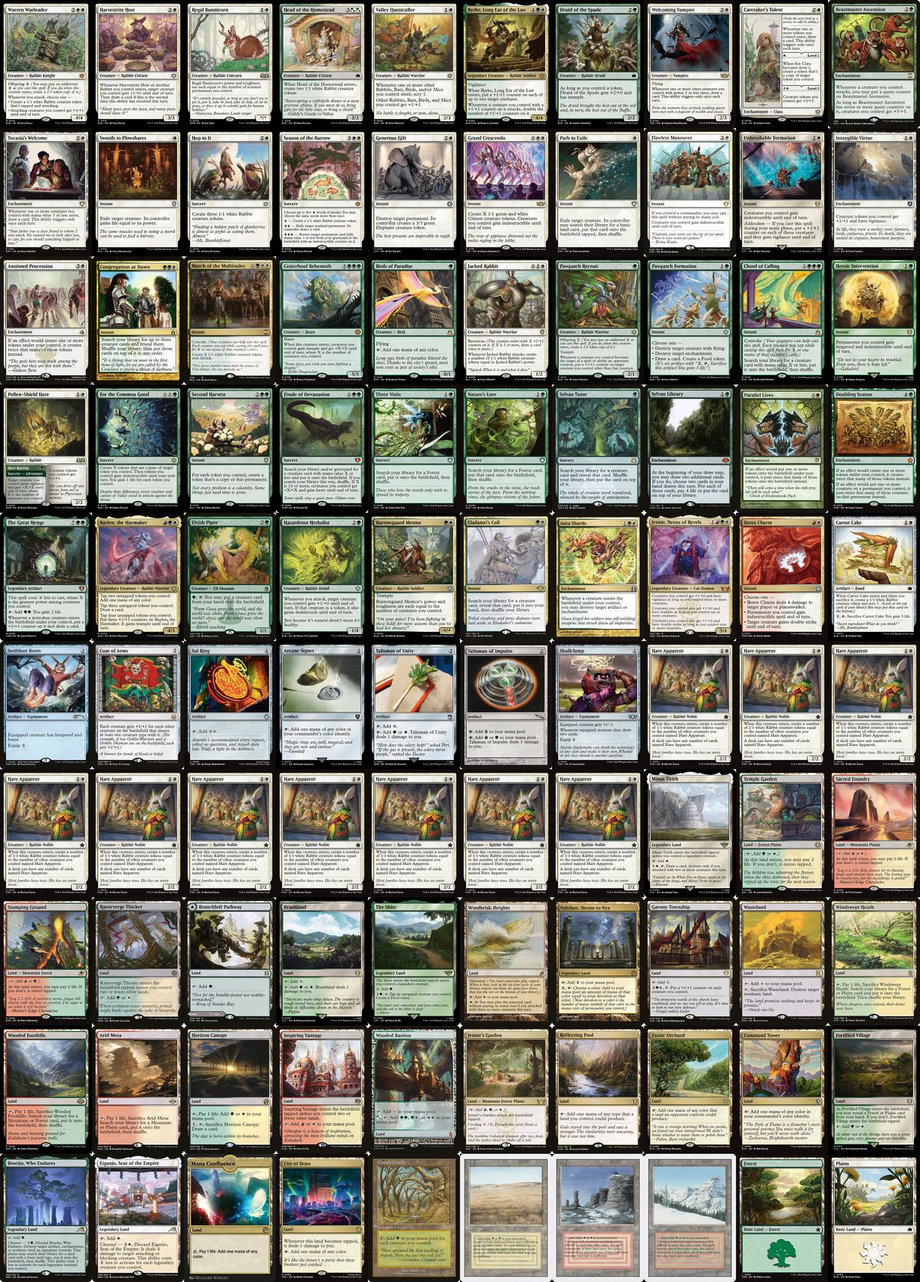
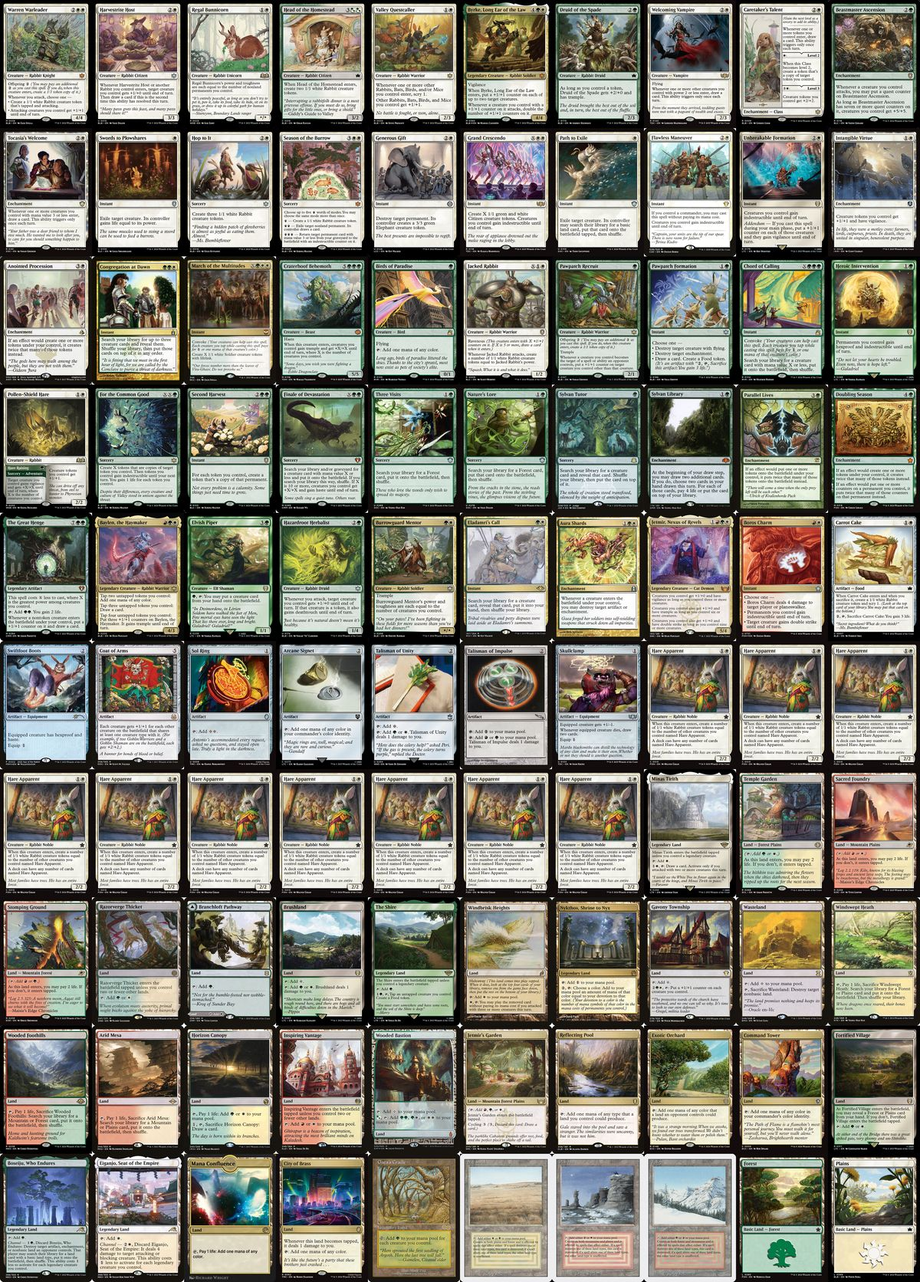
Elvish Piper → LTC, Beastmaster Ascension → BLC printings

Changed region(s): [[0.8942, 0.0, 1.0, 0.0933], [0.185, 0.4043, 0.3083, 0.4976]]

diff --git a/theme_analysis.md b/theme_analysis.md
@@ -29,7 +29,7 @@
 |------|------|----------|---------|-------------|--------|-------|---------------|
 | Hare Apparent ×12 | Both | [🔗](https://scryfall.com/card/fdn/15/hare-apparent) | ✅ | ✅ | ✅ | 10 | The twelve identical guests who all brought the same dish to the potluck. Alone they're small, but together each one grows stronger for every other Hare in the room. The party wouldn't exist without them. |
 | Warren Warleader | Both | [🔗](https://scryfall.com/card/blb/38/warren-warleader) | ✅ | ✅ | ✅ | 9 | The bouncer who's also the life of the party. Every time she swings, two more bunnies hop through the door and the whole crew gets pumped. Nobody causes trouble on her watch. |
-| Elvish Piper | Both | [🔗](https://scryfall.com/card/a25/168/elvish-piper) | ❌ | ❌ | ✅ | 5 | The backstage manager who sneaks the headliner in through the side door. Tap her and any creature in your hand walks onto the stage for free — Craterhoof, Jetmir, whoever's next on the setlist. |
+| Elvish Piper | Both | [🔗](https://scryfall.com/card/ltc/239/elvish-piper) | ❌ | ❌ | ✅ | 5 | The backstage manager who sneaks the headliner in through the side door. Tap her and any creature in your hand walks onto the stage for free — Craterhoof, Jetmir, whoever's next on the setlist. |
 | Harvestrite Host | Both | [🔗](https://scryfall.com/card/blb/15/harvestrite-host) | ✅ | ✅ | ✅ | 9 | Literally "the host." Every time a new rabbit arrives, someone gets pumped up, and the moment a second guest hops through the door this turn, she hands out a party favor (a card). Rabbits gathered around a harvest table loaded with food, lanterns glowing overhead. Peak celebration energy. |
 | Regal Bunnicorn | Both | [🔗](https://scryfall.com/card/woe/25/regal-bunnicorn) | ✅ | ✅ | ✅ | 9 | The fancy guest who shows up looking better every time someone else arrives. Power and toughness equal to your nonland permanents — at a party this size, she's enormous. |
 | Welcoming Vampire | Both | [🔗](https://scryfall.com/card/tdc/140/welcoming-vampire) | ❌ | ❌ | ✅ | 7 | The gracious host at the door who greets every new face with a smile and a card. Whenever a creature with power 2 or less enters, she draws — and in a deck full of 1/1 rabbits, the welcome never ends. Flying lets her keep an eye on the whole party from above. |
@@ -115,7 +115,7 @@
 | Parallel Lives | Both | [🔗](https://scryfall.com/card/isd/199/parallel-lives) | ❌ | ❌ | ✅ | 5 | The mirror ball splits every token into two. Same deal as Anointed Procession but in green — every rabbit brings a twin. The party doubles in parallel. |
 | Doubling Season | Both | [🔗](https://scryfall.com/card/fdn/216/doubling-season) | ❌ | ❌ | ✅ | 5 | The party doubles AND the party favors double. Tokens AND counters — it's literally twice the everything. The season of excess. |
 | Sylvan Library | Both | [🔗](https://scryfall.com/card/dmr/179/sylvan-library) | ❌ | ❌ | ❌ | 2 | The bookshelf in the corner where the introverts gather. Look at three cards, keep the extras for 4 life each. Knowledge is power, even at a party. |
-| Beastmaster Ascension | Both | [🔗](https://scryfall.com/card/ncc/283/beastmaster-ascension) | ❌ | ❌ | ✅ | 6 | The moment the party hits critical mass. Seven creatures swing, the quest counters max out, and suddenly every rabbit at the table gets +5/+5. One combat and the energy goes from "cute gathering" to "unstoppable force." |
+| Beastmaster Ascension | Both | [🔗](https://scryfall.com/card/blc/118/beastmaster-ascension) | ❌ | ❌ | ✅ | 6 | The moment the party hits critical mass. Seven creatures swing, the quest counters max out, and suddenly every rabbit at the table gets +5/+5. One combat and the energy goes from "cute gathering" to "unstoppable force." |
 | Aura Shards | Both | [🔗](https://scryfall.com/card/cmd/182/aura-shards) | ❌ | ❌ | ❌ | 3 | The party's cleanup crew. Every creature that enters shatters an opponent's artifact or enchantment. They're not here for the fun — they're here to break the opposition's toys. |
 | Smothering Tithe | B4 | [🔗](https://scryfall.com/card/p22/5/smothering-tithe) | ❌ | ❌ | ✅ | 4 | The cover charge. Every time an opponent draws, they pay 2 or you get a Treasure. The party has a velvet rope and a minimum spend. Someone has to fund the decorations. |
 | Survival of the Fittest | B4 | [🔗](https://scryfall.com/card/g09/4/survival-of-the-fittest) | ❌ | ❌ | ❌ | 2 | The VIP list. Discard any creature, search for the exact one you want. Ruthlessly efficient guest management — only the fittest survive the final cut. |
